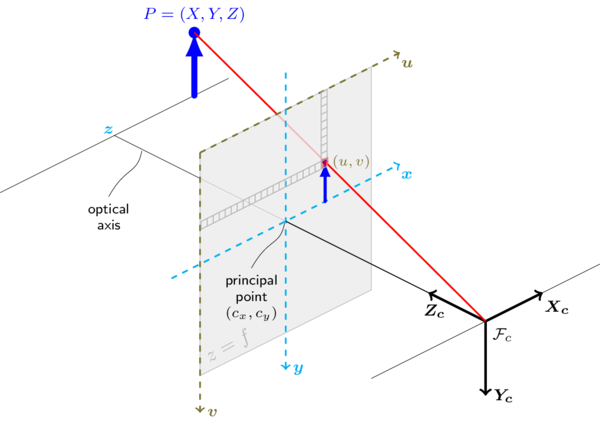
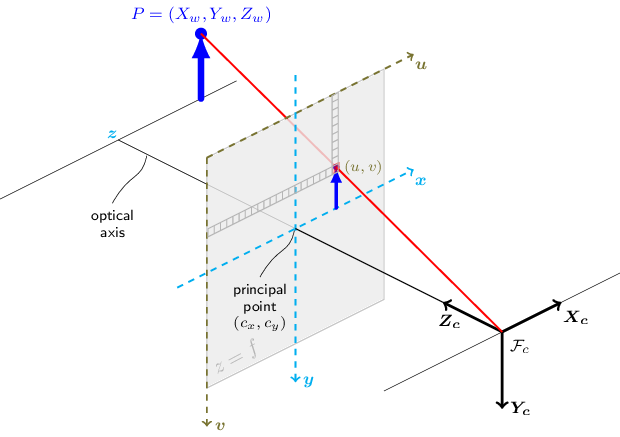
Improve calib3d documentation:   - add reference to Rodrigues Jacobian   - add references to SE(3) and Lie Groups topics   - update some conventions and pinhole figure

diff --git a/modules/calib3d/include/opencv2/calib3d.hpp b/modules/calib3d/include/opencv2/calib3d.hpp
@@ -60,24 +60,24 @@ or
 
 \f[s  \vecthree{u}{v}{1} = \vecthreethree{f_x}{0}{c_x}{0}{f_y}{c_y}{0}{0}{1}
 \begin{bmatrix}
-r_{11} & r_{12} & r_{13} & t_1  \\
-r_{21} & r_{22} & r_{23} & t_2  \\
-r_{31} & r_{32} & r_{33} & t_3
+r_{11} & r_{12} & r_{13} & t_x  \\
+r_{21} & r_{22} & r_{23} & t_y  \\
+r_{31} & r_{32} & r_{33} & t_z
 \end{bmatrix}
 \begin{bmatrix}
-X \\
-Y \\
-Z \\
+X_w \\
+Y_w \\
+Z_w \\
 1
 \end{bmatrix}\f]
 
 where:
 
--   \f$(X, Y, Z)\f$ are the coordinates of a 3D point in the world coordinate space
+-   \f$(X_w, Y_w, Z_w)\f$ are the coordinates of a 3D point in the world coordinate space
 -   \f$(u, v)\f$ are the coordinates of the projection point in pixels
 -   \f$A\f$ is a camera matrix, or a matrix of intrinsic parameters
--   \f$(cx, cy)\f$ is a principal point that is usually at the image center
--   \f$fx, fy\f$ are the focal lengths expressed in pixel units.
+-   \f$(c_x, c_y)\f$ is a principal point that is usually at the image center
+-   \f$f_x, f_y\f$ are the focal lengths expressed in pixel units.
 
 Thus, if an image from the camera is scaled by a factor, all of these parameters should be scaled
 (multiplied/divided, respectively) by the same factor. The matrix of intrinsic parameters does not
@@ -85,15 +85,15 @@ depend on the scene viewed. So, once estimated, it can be re-used as long as the
 fixed (in case of zoom lens). The joint rotation-translation matrix \f$[R|t]\f$ is called a matrix of
 extrinsic parameters. It is used to describe the camera motion around a static scene, or vice versa,
 rigid motion of an object in front of a still camera. That is, \f$[R|t]\f$ translates coordinates of a
-point \f$(X, Y, Z)\f$ to a coordinate system, fixed with respect to the camera. The transformation above
-is equivalent to the following (when \f$z \ne 0\f$ ):
+world point \f$(X_w, Y_w, Z_w)\f$ to a coordinate system, fixed with respect to the camera.
+The transformation above is equivalent to the following (when \f$z \ne 0\f$ ):
 
 \f[\begin{array}{l}
-\vecthree{x}{y}{z} = R  \vecthree{X}{Y}{Z} + t \\
-x' = x/z \\
-y' = y/z \\
-u = f_x*x' + c_x \\
-v = f_y*y' + c_y
+\vecthree{X_c}{Y_c}{Z_c} = R  \vecthree{X_w}{Y_w}{Z_w} + t \\
+x' = X_c/Z_c \\
+y' = Y_c/Z_c \\
+u = f_x \times x' + c_x \\
+v = f_y \times y' + c_y
 \end{array}\f]
 
 The following figure illustrates the pinhole camera model.
@@ -104,14 +104,14 @@ Real lenses usually have some distortion, mostly radial distortion and slight ta
 So, the above model is extended as:
 
 \f[\begin{array}{l}
-\vecthree{x}{y}{z} = R  \vecthree{X}{Y}{Z} + t \\
-x' = x/z \\
-y' = y/z \\
+\vecthree{X_c}{Y_c}{Z_c} = R  \vecthree{X_w}{Y_w}{Z_w} + t \\
+x' = X_c/Z_c \\
+y' = Y_c/Z_c \\
 x'' = x'  \frac{1 + k_1 r^2 + k_2 r^4 + k_3 r^6}{1 + k_4 r^2 + k_5 r^4 + k_6 r^6} + 2 p_1 x' y' + p_2(r^2 + 2 x'^2) + s_1 r^2 + s_2 r^4 \\
 y'' = y'  \frac{1 + k_1 r^2 + k_2 r^4 + k_3 r^6}{1 + k_4 r^2 + k_5 r^4 + k_6 r^6} + p_1 (r^2 + 2 y'^2) + 2 p_2 x' y' + s_3 r^2 + s_4 r^4 \\
 \text{where} \quad r^2 = x'^2 + y'^2  \\
-u = f_x*x'' + c_x \\
-v = f_y*y'' + c_y
+u = f_x \times x'' + c_x \\
+v = f_y \times y'' + c_y
 \end{array}\f]
 
 \f$k_1\f$, \f$k_2\f$, \f$k_3\f$, \f$k_4\f$, \f$k_5\f$, and \f$k_6\f$ are radial distortion coefficients. \f$p_1\f$ and \f$p_2\f$ are
@@ -133,8 +133,8 @@ s\vecthree{x'''}{y'''}{1} =
 \vecthreethree{R_{33}(\tau_x, \tau_y)}{0}{-R_{13}(\tau_x, \tau_y)}
 {0}{R_{33}(\tau_x, \tau_y)}{-R_{23}(\tau_x, \tau_y)}
 {0}{0}{1} R(\tau_x, \tau_y) \vecthree{x''}{y''}{1}\\
-u = f_x*x''' + c_x \\
-v = f_y*y''' + c_y
+u = f_x \times x''' + c_x \\
+v = f_y \times y''' + c_y
 \end{array}\f]
 
 where the matrix \f$R(\tau_x, \tau_y)\f$ is defined by two rotations with angular parameter \f$\tau_x\f$
@@ -314,7 +314,7 @@ enum HandEyeCalibrationMethod
 @param jacobian Optional output Jacobian matrix, 3x9 or 9x3, which is a matrix of partial
 derivatives of the output array components with respect to the input array components.
 
-\f[\begin{array}{l} \theta \leftarrow norm(r) \\ r  \leftarrow r/ \theta \\ R =  \cos{\theta} I + (1- \cos{\theta} ) r r^T +  \sin{\theta} \vecthreethree{0}{-r_z}{r_y}{r_z}{0}{-r_x}{-r_y}{r_x}{0} \end{array}\f]
+\f[\begin{array}{l} \theta \leftarrow norm(r) \\ r  \leftarrow r/ \theta \\ R =  \cos(\theta) I + (1- \cos{\theta} ) r r^T +  \sin(\theta) \vecthreethree{0}{-r_z}{r_y}{r_z}{0}{-r_x}{-r_y}{r_x}{0} \end{array}\f]
 
 Inverse transformation can be also done easily, since
 
@@ -322,7 +322,16 @@ Inverse transformation can be also done easily, since
 
 A rotation vector is a convenient and most compact representation of a rotation matrix (since any
 rotation matrix has just 3 degrees of freedom). The representation is used in the global 3D geometry
-optimization procedures like calibrateCamera, stereoCalibrate, or solvePnP .
+optimization procedures like @ref calibrateCamera, @ref stereoCalibrate, or @ref solvePnP .
+
+@note More information about the computation of the derivative of a 3D rotation matrix with respect to its exponential coordinate
+can be found in:
+    - A Compact Formula for the Derivative of a 3-D Rotation in Exponential Coordinates, Guillermo Gallego, Anthony J. Yezzi @cite Gallego2014ACF
+
+@note Useful information on SE(3) and Lie Groups can be found in:
+    - A tutorial on SE(3) transformation parameterizations and on-manifold optimization, Jose-Luis Blanco @cite blanco2010tutorial
+    - Lie Groups for 2D and 3D Transformation, Ethan Eade @cite Eade17
+    - A micro Lie theory for state estimation in robotics, Joan Solà, Jérémie Deray, Dinesh Atchuthan @cite Sol2018AML
  */
 CV_EXPORTS_W void Rodrigues( InputArray src, OutputArray dst, OutputArray jacobian = noArray() );
 
@@ -564,10 +573,10 @@ Number of input points must be 4. Object points must be defined in the following
 - for all the other flags, number of input points must be >= 4 and object points can be in any configuration.
 
 @param objectPoints Array of object points in the object coordinate space, Nx3 1-channel or
-1xN/Nx1 3-channel, where N is the number of points. vector\<Point3f\> can be also passed here.
+1xN/Nx1 3-channel, where N is the number of points. vector\<Point3d\> can be also passed here.
 @param imagePoints Array of corresponding image points, Nx2 1-channel or 1xN/Nx1 2-channel,
-where N is the number of points. vector\<Point2f\> can be also passed here.
-@param cameraMatrix Input camera matrix \f$A = \vecthreethree{fx}{0}{cx}{0}{fy}{cy}{0}{0}{1}\f$ .
+where N is the number of points. vector\<Point2d\> can be also passed here.
+@param cameraMatrix Input camera matrix \f$A = \vecthreethree{f_x}{0}{c_x}{0}{f_y}{c_y}{0}{0}{1}\f$ .
 @param distCoeffs Input vector of distortion coefficients
 \f$(k_1, k_2, p_1, p_2[, k_3[, k_4, k_5, k_6 [, s_1, s_2, s_3, s_4[, \tau_x, \tau_y]]]])\f$ of
 4, 5, 8, 12 or 14 elements. If the vector is NULL/empty, the zero distortion coefficients are
@@ -625,7 +634,7 @@ using the perspective projection model \f$ \Pi \f$ and the camera intrinsic para
   v \\
   1
   \end{bmatrix} &=
-  \bf{A} \hspace{0.1em} \Pi \hspace{0.2em} ^{c}\bf{M}_w
+  \bf{A} \hspace{0.1em} \Pi \hspace{0.2em} ^{c}\bf{T}_w
   \begin{bmatrix}
   X_{w} \\
   Y_{w} \\
@@ -673,7 +682,7 @@ a 3D point expressed in the world frame into the camera frame:
   Z_c \\
   1
   \end{bmatrix} &=
-  \hspace{0.2em} ^{c}\bf{M}_w
+  \hspace{0.2em} ^{c}\bf{T}_w
   \begin{bmatrix}
   X_{w} \\
   Y_{w} \\
@@ -739,9 +748,9 @@ CV_EXPORTS_W bool solvePnP( InputArray objectPoints, InputArray imagePoints,
 /** @brief Finds an object pose from 3D-2D point correspondences using the RANSAC scheme.
 
 @param objectPoints Array of object points in the object coordinate space, Nx3 1-channel or
-1xN/Nx1 3-channel, where N is the number of points. vector\<Point3f\> can be also passed here.
+1xN/Nx1 3-channel, where N is the number of points. vector\<Point3d\> can be also passed here.
 @param imagePoints Array of corresponding image points, Nx2 1-channel or 1xN/Nx1 2-channel,
-where N is the number of points. vector\<Point2f\> can be also passed here.
+where N is the number of points. vector\<Point2d\> can be also passed here.
 @param cameraMatrix Input camera matrix \f$A = \vecthreethree{fx}{0}{cx}{0}{fy}{cy}{0}{0}{1}\f$ .
 @param distCoeffs Input vector of distortion coefficients
 \f$(k_1, k_2, p_1, p_2[, k_3[, k_4, k_5, k_6 [, s_1, s_2, s_3, s_4[, \tau_x, \tau_y]]]])\f$ of
@@ -791,7 +800,7 @@ CV_EXPORTS_W bool solvePnPRansac( InputArray objectPoints, InputArray imagePoint
 1x3/3x1 3-channel. vector\<Point3f\> can be also passed here.
 @param imagePoints Array of corresponding image points, 3x2 1-channel or 1x3/3x1 2-channel.
  vector\<Point2f\> can be also passed here.
-@param cameraMatrix Input camera matrix \f$A = \vecthreethree{fx}{0}{cx}{0}{fy}{cy}{0}{0}{1}\f$ .
+@param cameraMatrix Input camera matrix \f$A = \vecthreethree{f_x}{0}{c_x}{0}{f_y}{c_y}{0}{0}{1}\f$ .
 @param distCoeffs Input vector of distortion coefficients
 \f$(k_1, k_2, p_1, p_2[, k_3[, k_4, k_5, k_6 [, s_1, s_2, s_3, s_4[, \tau_x, \tau_y]]]])\f$ of
 4, 5, 8, 12 or 14 elements. If the vector is NULL/empty, the zero distortion coefficients are
@@ -820,10 +829,10 @@ CV_EXPORTS_W int solveP3P( InputArray objectPoints, InputArray imagePoints,
 to the camera coordinate frame) from a 3D-2D point correspondences and starting from an initial solution.
 
 @param objectPoints Array of object points in the object coordinate space, Nx3 1-channel or 1xN/Nx1 3-channel,
-where N is the number of points. vector\<Point3f\> can also be passed here.
+where N is the number of points. vector\<Point3d\> can also be passed here.
 @param imagePoints Array of corresponding image points, Nx2 1-channel or 1xN/Nx1 2-channel,
-where N is the number of points. vector\<Point2f\> can also be passed here.
-@param cameraMatrix Input camera matrix \f$A = \vecthreethree{fx}{0}{cx}{0}{fy}{cy}{0}{0}{1}\f$ .
+where N is the number of points. vector\<Point2d\> can also be passed here.
+@param cameraMatrix Input camera matrix \f$A = \vecthreethree{f_x}{0}{c_x}{0}{f_y}{c_y}{0}{0}{1}\f$ .
 @param distCoeffs Input vector of distortion coefficients
 \f$(k_1, k_2, p_1, p_2[, k_3[, k_4, k_5, k_6 [, s_1, s_2, s_3, s_4[, \tau_x, \tau_y]]]])\f$ of
 4, 5, 8, 12 or 14 elements. If the vector is NULL/empty, the zero distortion coefficients are
@@ -848,10 +857,10 @@ CV_EXPORTS_W void solvePnPRefineLM( InputArray objectPoints, InputArray imagePoi
 to the camera coordinate frame) from a 3D-2D point correspondences and starting from an initial solution.
 
 @param objectPoints Array of object points in the object coordinate space, Nx3 1-channel or 1xN/Nx1 3-channel,
-where N is the number of points. vector\<Point3f\> can also be passed here.
+where N is the number of points. vector\<Point3d\> can also be passed here.
 @param imagePoints Array of corresponding image points, Nx2 1-channel or 1xN/Nx1 2-channel,
-where N is the number of points. vector\<Point2f\> can also be passed here.
-@param cameraMatrix Input camera matrix \f$A = \vecthreethree{fx}{0}{cx}{0}{fy}{cy}{0}{0}{1}\f$ .
+where N is the number of points. vector\<Point2d\> can also be passed here.
+@param cameraMatrix Input camera matrix \f$A = \vecthreethree{f_x}{0}{c_x}{0}{f_y}{c_y}{0}{0}{1}\f$ .
 @param distCoeffs Input vector of distortion coefficients
 \f$(k_1, k_2, p_1, p_2[, k_3[, k_4, k_5, k_6 [, s_1, s_2, s_3, s_4[, \tau_x, \tau_y]]]])\f$ of
 4, 5, 8, 12 or 14 elements. If the vector is NULL/empty, the zero distortion coefficients are
@@ -890,10 +899,10 @@ Number of input points must be 4 and 2 solutions are returned. Object points mus
 Only 1 solution is returned.
 
 @param objectPoints Array of object points in the object coordinate space, Nx3 1-channel or
-1xN/Nx1 3-channel, where N is the number of points. vector\<Point3f\> can be also passed here.
+1xN/Nx1 3-channel, where N is the number of points. vector\<Point3d\> can be also passed here.
 @param imagePoints Array of corresponding image points, Nx2 1-channel or 1xN/Nx1 2-channel,
-where N is the number of points. vector\<Point2f\> can be also passed here.
-@param cameraMatrix Input camera matrix \f$A = \vecthreethree{fx}{0}{cx}{0}{fy}{cy}{0}{0}{1}\f$ .
+where N is the number of points. vector\<Point2d\> can be also passed here.
+@param cameraMatrix Input camera matrix \f$A = \vecthreethree{f_x}{0}{c_x}{0}{f_y}{c_y}{0}{0}{1}\f$ .
 @param distCoeffs Input vector of distortion coefficients
 \f$(k_1, k_2, p_1, p_2[, k_3[, k_4, k_5, k_6 [, s_1, s_2, s_3, s_4[, \tau_x, \tau_y]]]])\f$ of
 4, 5, 8, 12 or 14 elements. If the vector is NULL/empty, the zero distortion coefficients are
@@ -958,7 +967,7 @@ using the perspective projection model \f$ \Pi \f$ and the camera intrinsic para
   v \\
   1
   \end{bmatrix} &=
-  \bf{A} \hspace{0.1em} \Pi \hspace{0.2em} ^{c}\bf{M}_w
+  \bf{A} \hspace{0.1em} \Pi \hspace{0.2em} ^{c}\bf{T}_w
   \begin{bmatrix}
   X_{w} \\
   Y_{w} \\
@@ -1006,7 +1015,7 @@ a 3D point expressed in the world frame into the camera frame:
   Z_c \\
   1
   \end{bmatrix} &=
-  \hspace{0.2em} ^{c}\bf{M}_w
+  \hspace{0.2em} ^{c}\bf{T}_w
   \begin{bmatrix}
   X_{w} \\
   Y_{w} \\
